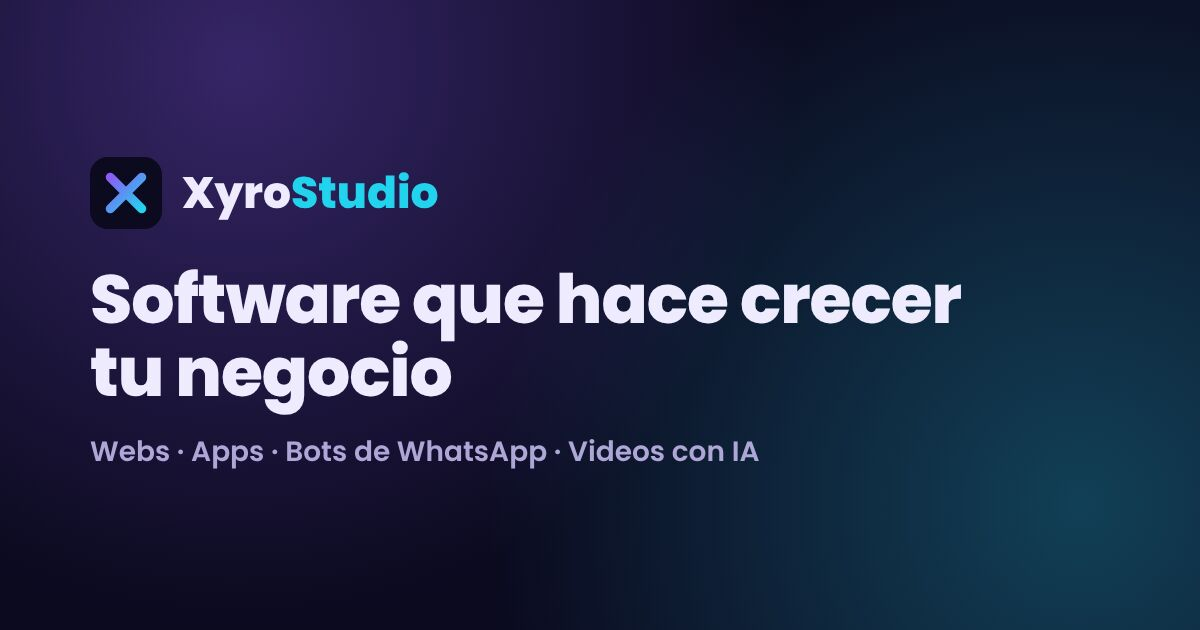
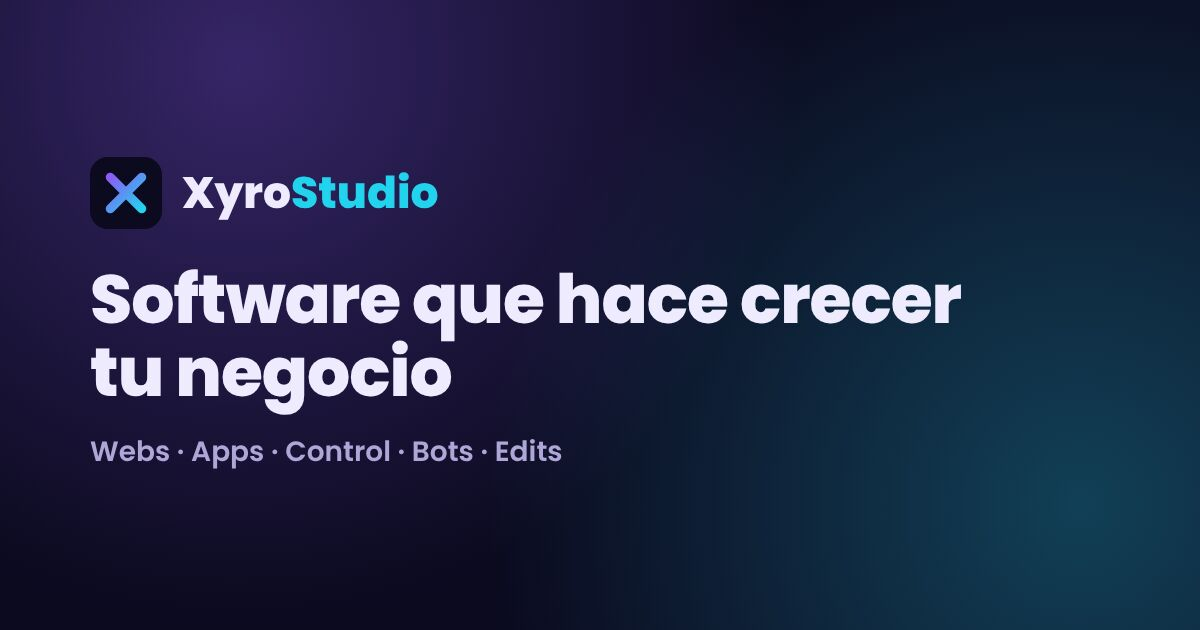
XyroStudio: 5 divisiones (Webs, Apps, Control, Bots, Edits) y sección Productos con la app de videos
Claude-Session: https://claude.ai/code/session_01584v4kCmoazRXtMWEAHXGW

Changed region(s): [[0.2467, 0.6937, 0.6475, 0.754]]

diff --git a/xyrostudio/index.html b/xyrostudio/index.html
@@ -1,13 +1,13 @@
 <!doctype html>
 <html lang="es-PE"><head><meta charset="utf-8">
 <meta name="viewport" content="width=device-width,initial-scale=1">
-<title>XyroStudio · Software, automatización y videos con IA para negocios en Perú</title>
-<meta name="description" content="Webs y sistemas a medida, apps por suscripción, bots de WhatsApp que venden y videos con IA para bodegas, gimnasios, clínicas y empresas del Perú. Cotiza por WhatsApp.">
+<title>XyroStudio · Webs, apps, control, bots y edición para negocios en Perú</title>
+<meta name="description" content="Webs y sistemas a medida, apps por suscripción, sistemas de control, bots de WhatsApp que venden y edición de videos con IA para bodegas, gimnasios, clínicas y empresas del Perú. Cotiza por WhatsApp.">
 <meta name="theme-color" content="#0B0A1F">
 <link rel="canonical" href="https://whyhunterdev.github.io/xyrostudio/">
 <meta property="og:type" content="website"><meta property="og:locale" content="es_PE">
 <meta property="og:title" content="XyroStudio · Software que hace crecer tu negocio">
-<meta property="og:description" content="Webs, apps, bots de WhatsApp y videos con IA para negocios peruanos.">
+<meta property="og:description" content="Xyro Webs, Xyro Apps, Xyro Control, Xyro Bots y Xyro Edits para negocios peruanos.">
 <meta property="og:url" content="https://whyhunterdev.github.io/xyrostudio/">
 <meta property="og:image" content="https://whyhunterdev.github.io/xyrostudio/img/og.jpg">
 <meta name="twitter:card" content="summary_large_image">
@@ -56,7 +56,7 @@ p{margin:0}.mut{color:var(--mut)}
 .paso b{display:block;font-size:13px;color:var(--oro)}.paso strong{display:block;font-weight:800;margin:4px 0}
 .paso p{font-size:14px}
 /* divisiones */
-.divs{display:grid;grid-template-columns:repeat(2,1fr);gap:18px}
+.divs{display:grid;grid-template-columns:repeat(auto-fit,minmax(300px,1fr));gap:18px}
 .div{position:relative;padding:28px;border-radius:var(--r);background:var(--card);border:1px solid var(--line);overflow:hidden}
 .div::after{content:"";position:absolute;right:-60px;top:-60px;width:180px;height:180px;border-radius:50%;background:var(--c);opacity:.18;filter:blur(30px)}
 .div .di{width:48px;height:48px;border-radius:14px;display:grid;place-items:center;background:var(--c);margin-bottom:18px}
@@ -126,7 +126,7 @@ footer .w{display:flex;flex-wrap:wrap;gap:12px;justify-content:space-between}
 
 <header class="hd"><div class="w">
 <a class="logo" href="#top"><img src="icon.svg" alt="" width="32" height="32"><span>Xyro<b>Studio</b></span></a>
-<nav class="nav" aria-label="Secciones"><a href="#divisiones">Divisiones</a><a href="#caso">Casos</a><a href="#videos">Videos IA</a><a href="#precios">Precios</a><a href="#faq">Preguntas</a></nav>
+<nav class="nav" aria-label="Secciones"><a href="#divisiones">Divisiones</a><a href="#caso">Casos</a><a href="#productos">Productos</a><a href="#precios">Precios</a><a href="#faq">Preguntas</a></nav>
 <a class="btn btn-wa" href="https://wa.me/51936449066?text=Hola%20XyroStudio%2C%20quiero%20cotizar%20un%20proyecto" target="_blank" rel="noopener"><svg class="ico"><use href="#wa"/></svg><span>Cotizar</span></a>
 </div></header>
 
@@ -134,7 +134,7 @@ footer .w{display:flex;flex-wrap:wrap;gap:12px;justify-content:space-between}
 <section class="hero"><div class="w">
 <span class="tag">Hecho en Lima · para todo el Perú</span>
 <h1>Software que hace <span class="grad">crecer tu negocio</span> y acaba con los procesos lentos</h1>
-<p class="lead mut">Webs, sistemas, apps por suscripción, bots de WhatsApp y videos con IA. Tú atiendes a tus clientes; lo repetitivo lo hace la tecnología.</p>
+<p class="lead mut">Webs, apps, sistemas de control, bots de WhatsApp y edición con IA. Tú atiendes a tus clientes; lo repetitivo lo hace la tecnología.</p>
 <div class="ctas">
 <a class="btn btn-wa" href="https://wa.me/51936449066?text=Hola%20XyroStudio%2C%20quiero%20cotizar%20un%20proyecto" target="_blank" rel="noopener"><svg class="ico"><use href="#wa"/></svg>Cotizar por WhatsApp</a>
 <a class="btn btn-gh" href="#caso">Ver caso de éxito →</a>
@@ -148,19 +148,22 @@ footer .w{display:flex;flex-wrap:wrap;gap:12px;justify-content:space-between}
 </div></section>
 
 <section class="sec" id="divisiones"><div class="w">
-<div class="sec-h"><span class="tag">Divisiones</span><h2>Todo lo digital de tu negocio, en un solo lugar</h2><p class="mut">Cuatro equipos que trabajan juntos para que vendas más y trabajes menos.</p></div>
+<div class="sec-h"><span class="tag">Divisiones</span><h2>Todo lo digital de tu negocio, en un solo lugar</h2><p class="mut">Cinco divisiones que trabajan juntas para que vendas más y trabajes menos.</p></div>
 <div class="divs">
-<article class="div" style="--c:#8B5CF6"><div class="di"><svg viewBox="0 0 24 24"><rect x="3" y="4" width="18" height="14" rx="2"/><path d="M3 9h18M8 21h8"/></svg></div>
-<h3>Xyro Web</h3><p class="mut">Webs y sistemas a medida, con panel propio para que tu equipo actualice todo sin depender de nadie.</p>
+<article class="div" id="webs" style="--c:#8B5CF6"><div class="di"><svg viewBox="0 0 24 24"><rect x="3" y="4" width="18" height="14" rx="2"/><path d="M3 9h18M8 21h8"/></svg></div>
+<h3>Xyro Webs</h3><p class="mut">Webs y sistemas a medida, con panel propio para que tu equipo actualice todo sin depender de nadie.</p>
 <ul><li>Web rápida, con SEO y botón de WhatsApp</li><li>Panel con roles (admin, recepción, caja)</li><li>Libro de Reclamaciones y páginas legales</li></ul></article>
-<article class="div" style="--c:#0EA5E9"><div class="di"><svg viewBox="0 0 24 24"><rect x="6" y="2" width="12" height="20" rx="2.5"/><path d="M10 18h4M9 7h6M9 11h6"/></svg></div>
+<article class="div" id="apps" style="--c:#0EA5E9"><div class="di"><svg viewBox="0 0 24 24"><rect x="6" y="2" width="12" height="20" rx="2.5"/><path d="M10 18h4M9 7h6M9 11h6"/></svg></div>
 <h3>Xyro Apps <span class="badge">SaaS</span></h3><p class="mut">Sistemas listos por suscripción mensual. Empieza hoy, sin pagar un desarrollo completo.</p>
 <ul><li>Xyro Gym: socios, pagos, asistencia y clases</li><li>Luego: bodegas, panaderías y más rubros</li><li>Facturación electrónica SUNAT vía OSE</li></ul></article>
-<article class="div" style="--c:#16A34A"><div class="di"><svg viewBox="0 0 24 24"><path d="M4 6a2 2 0 0 1 2-2h12a2 2 0 0 1 2 2v9a2 2 0 0 1-2 2H10l-5 4v-4a2 2 0 0 1-1-2z"/><path d="M9 10h.01M15 10h.01"/></svg></div>
+<article class="div" id="control" style="--c:#F59E0B"><div class="di"><svg viewBox="0 0 24 24"><path d="M4 20V10M10 20V4M16 20v-7M22 20H2"/></svg></div>
+<h3>Xyro Control</h3><p class="mut">Control de tu negocio en tiempo real: ventas, caja, inventario y asistencia, desde el celular.</p>
+<ul><li>Caja e inventario al día</li><li>Asistencia del personal con QR</li><li>Reportes claros para decidir rápido</li></ul></article>
+<article class="div" id="bots" style="--c:#16A34A"><div class="di"><svg viewBox="0 0 24 24"><path d="M4 6a2 2 0 0 1 2-2h12a2 2 0 0 1 2 2v9a2 2 0 0 1-2 2H10l-5 4v-4a2 2 0 0 1-1-2z"/><path d="M9 10h.01M15 10h.01"/></svg></div>
 <h3>Xyro Bots</h3><p class="mut">Chatbots y automatizaciones de WhatsApp que responden, agendan y venden las 24 horas.</p>
 <ul><li>Respuestas automáticas y catálogo</li><li>Reservas, recordatorios y cobros</li><li>Conectado a tu web y tu sistema</li></ul></article>
-<article class="div" style="--c:#DB2777"><div class="di"><svg viewBox="0 0 24 24"><rect x="3" y="6" width="13" height="12" rx="2"/><path d="M16 10l5-3v10l-5-3z"/></svg></div>
-<h3>Xyro Studio IA</h3><p class="mut">Videos con inteligencia artificial, edición y reels que hacen que tu marca se vea en redes.</p>
+<article class="div" id="edits" style="--c:#DB2777"><div class="di"><svg viewBox="0 0 24 24"><rect x="3" y="6" width="13" height="12" rx="2"/><path d="M16 10l5-3v10l-5-3z"/></svg></div>
+<h3>Xyro Edits</h3><p class="mut">Edición de videos, reels y contenido con IA para que tu marca se vea en redes.</p>
 <ul><li>Reels y anuncios para Instagram y TikTok</li><li>Voz, subtítulos y escenas generadas con IA</li><li>Edición de tus propios videos</li></ul></article>
 </div>
 </div></section>
@@ -183,7 +186,7 @@ footer .w{display:flex;flex-wrap:wrap;gap:12px;justify-content:space-between}
 </div></section>
 
 <section class="sec" id="videos"><div class="w">
-<div class="sec-h"><span class="tag">Xyro Studio IA</span><h2>Videos con IA que detienen el scroll</h2><p class="mut">Formatos verticales listos para Reels, TikTok y Shorts, hechos para tu marca.</p></div>
+<div class="sec-h"><span class="tag">Xyro Edits</span><h2>Videos que detienen el scroll</h2><p class="mut">Formatos verticales listos para Reels, TikTok y Shorts, hechos para tu marca.</p></div>
 <div class="vids" id="vids">
 <article class="vid"><div class="ph" style="--a:#7C3AED;--b:#DB2777"><span class="cap"><small>Reel promocional</small>“¡2x1 solo este fin de semana!”</span></div><div class="vid-tx"><strong>Reels de promoción</strong><span class="mut">Ofertas que se comparten.</span></div></article>
 <article class="vid"><div class="ph" style="--a:#0EA5E9;--b:#4338CA"><span class="cap"><small>Avatar con voz IA</small>“Te presento nuestro nuevo servicio”</span></div><div class="vid-tx"><strong>Voz y avatar IA</strong><span class="mut">Sin grabar ni salir en cámara.</span></div></article>
@@ -193,7 +196,14 @@ footer .w{display:flex;flex-wrap:wrap;gap:12px;justify-content:space-between}
 <div class="ctas" style="margin-top:28px"><a class="btn btn-wa" href="https://wa.me/51936449066?text=Hola%20XyroStudio%2C%20quiero%20videos%20con%20IA%20para%20mi%20negocio" target="_blank" rel="noopener"><svg class="ico"><use href="#wa"/></svg>Pedir mi video de prueba</a></div>
 </div></section>
 
-<section class="sec" id="precios" style="background:var(--bg2)"><div class="w">
+<section class="sec" id="productos" style="background:var(--bg2)"><div class="w">
+<div class="sec-h"><span class="tag">Productos</span><h2>Software propio de XyroStudio</h2><p class="mut">Herramientas que creamos y puedes usar hoy. Iremos sumando más.</p></div>
+<article class="gym" style="background:linear-gradient(120deg,#8B5CF633,#22D3EE1f);border-color:#8B5CF666"><div><span class="tag">App de escritorio · Gratis</span><h2 style="font-size:clamp(24px,3.4vw,34px)">XyroStudio Videos</h2><p class="mut">Escribe un tema y la app crea el guion, la voz, las escenas 3D, la música y los subtítulos. Vídeos verticales listos para TikTok, Reels y Shorts.</p>
+<div class="nums" style="margin:20px 0 0"><div><strong>320+</strong><span>escenas 3D</span></div><div><strong>60 s</strong><span>o menos por vídeo</span></div><div><strong>15</strong><span>vídeos gratis al mes</span></div></div></div>
+<a class="btn btn-gh" href="videos/">Conocer la app →</a></article>
+</div></section>
+
+<section class="sec" id="precios"><div class="w">
 <div class="sec-h"><span class="tag">Precios</span><h2>Precios claros, sin sorpresas</h2><p class="mut">Pago único de implementación + mensualidad de soporte y hosting. Empiezas con el 50% de adelanto.</p></div>
 <div class="planes">
 <article class="plan"><span class="nm">Web Esencial</span><div class="pr"><small>S/</small> 4,500</div><span class="mes">+ desde S/ 300 al mes</span>
@@ -209,7 +219,7 @@ footer .w{display:flex;flex-wrap:wrap;gap:12px;justify-content:space-between}
 <div class="extras">
 <div class="ex">Temas de temporada premium<b>S/ 100 c/u</b></div>
 <div class="ex">Bots de WhatsApp<b>A cotizar</b></div>
-<div class="ex">Videos con IA y reels<b>A cotizar</b></div>
+<div class="ex">Edición y reels (Xyro Edits)<b>A cotizar</b></div>
 <div class="ex">Facturación SUNAT (OSE)<b>A cotizar</b></div>
 <div class="ex">Hardware QR de asistencia<b>A cotizar</b></div>
 <div class="ex">Soporte premium<b>A cotizar</b></div>
@@ -240,7 +250,7 @@ footer .w{display:flex;flex-wrap:wrap;gap:12px;justify-content:space-between}
 </div></section>
 </main>
 
-<footer><div class="w"><span>© <span id="y">2026</span> XyroStudio · Lima, Perú</span><span>Xyro Web · Xyro Apps · Xyro Bots · Xyro Studio IA</span></div></footer>
+<footer><div class="w"><span>© <span id="y">2026</span> XyroStudio · Lima, Perú</span><span>Xyro Webs · Xyro Apps · Xyro Control · Xyro Bots · Xyro Edits</span></div></footer>
 <a class="fab" href="https://wa.me/51936449066?text=Hola%20XyroStudio%2C%20quiero%20cotizar%20un%20proyecto" target="_blank" rel="noopener" aria-label="Escribir por WhatsApp"><svg style="color:#fff"><use href="#wa"/></svg></a>
 <script>
 document.getElementById('y').textContent=new Date().getFullYear();
